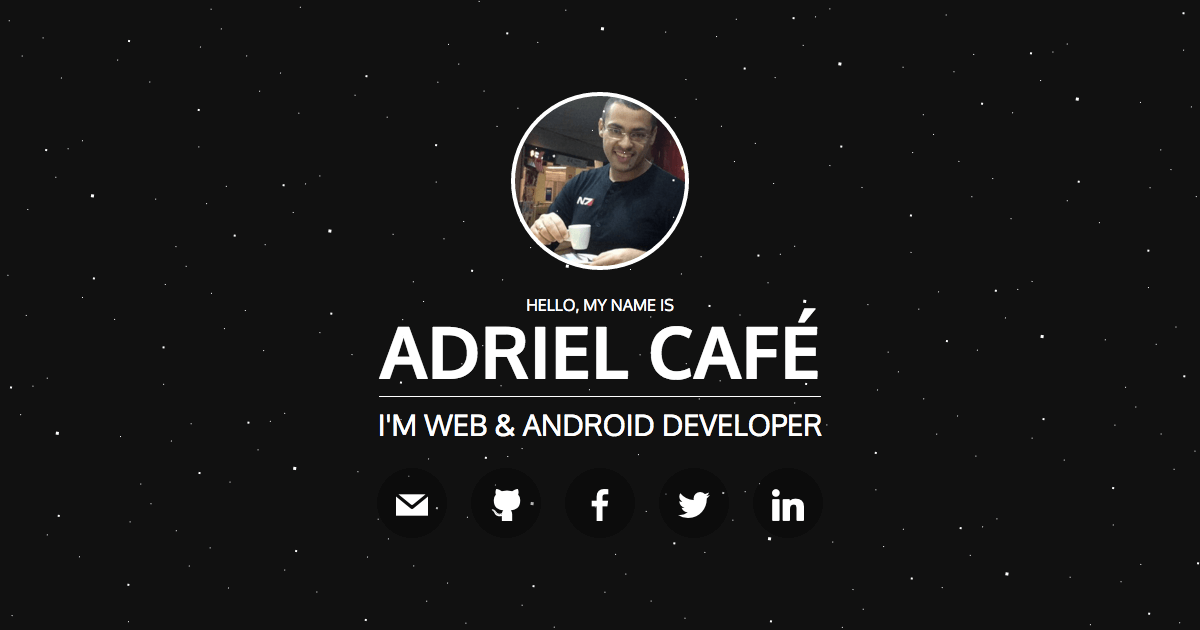
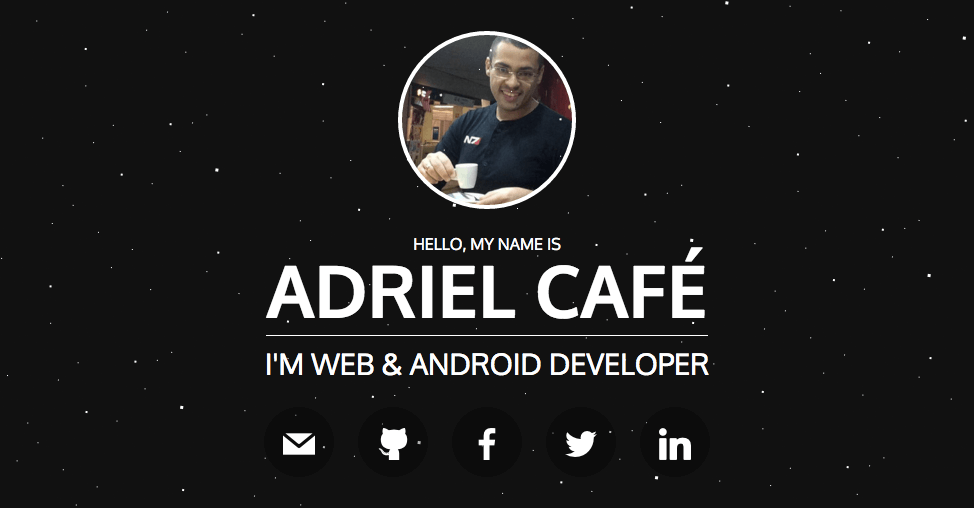
Facebook like button

diff --git a/parse/public/index.html b/parse/public/index.html
@@ -8,6 +8,7 @@
     <meta name="author" content="Adriel Café">
     <meta name="description" content="Personal site of Adriel Café" />
     <meta property="og:title" content="adriel.cafe">
+    <meta property="og:url" content="http://adriel.cafe">
     <meta property="og:image" content="https://raw.githubusercontent.com/adrielcafe/adriel.cafe/master/screenshot.png">
     <meta property="og:description" content="Personal site of Adriel Café">
     <link rel="icon" href="favicon.ico">
@@ -17,6 +18,23 @@
     <link rel="stylesheet" type="text/css" href="css/app.css">
   </head>
   <body>
+    <script>
+      window.fbAsyncInit = function() {
+        FB.init({
+          appId      : '1043582559026069',
+          xfbml      : true,
+          version    : 'v2.5'
+        });
+      };
+      (function(d, s, id){
+         var js, fjs = d.getElementsByTagName(s)[0];
+         if (d.getElementById(id)) {return;}
+         js = d.createElement(s); js.id = id;
+         js.src = "//connect.facebook.net/en_US/sdk.js";
+         fjs.parentNode.insertBefore(js, fjs);
+       }(document, 'script', 'facebook-jssdk'));
+    </script>
+
     <div id="space"></div>
     <main>
   		<div id="photo"></div>
@@ -45,7 +63,8 @@
           <div class="hi-icon socicon-linkedin"></div>
         </a>
       </div>
-
+      
+      <div class="fb-like" data-share="true" data-width="450" data-show-faces="true"></div>
     </main>
   </body>
 </html>

diff --git a/parse/public/css/app.css b/parse/public/css/app.css
@@ -87,6 +87,10 @@ a {
 	    line-height: 45px !important;
 	}
 
+	.fb_iframe_widget {
+		width: 340px;
+	}
+
 }
 
 
